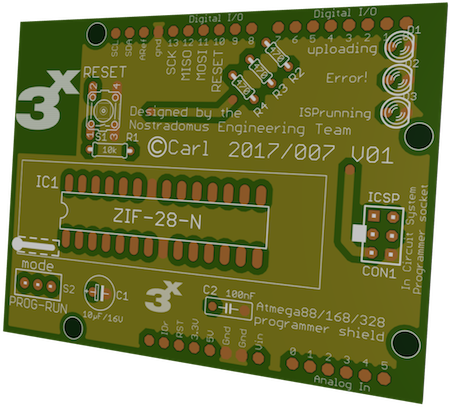
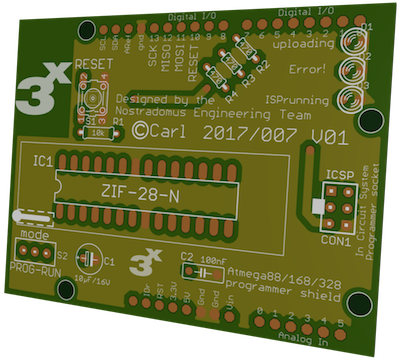
.

diff --git a/README.md b/README.md
@@ -4,7 +4,7 @@
 
 This repo provides you with all necessary info (and files) to build an Arduino shield to program [Atmel](http://www.atmel.com)'s **[atmega88/168/328](http://www.microchip.com/design-centers/8-bit/microchip-avr-mcus)** 𝜇-controllers. For that matter, the underlying Arduino board should be loaded with the ISP-programmer sketch (built-in example).
 
-![Shield - topview](images/photo-shield_only_top_view.png) ![Shield - bottomview](images/photo-shield_only_bottom_view.png)
+[![Schematic](images/schematic-s.png)](images/schematic.png) [![PCB](images/pcb-s.png)](images/pcb.png)
 
 ## Why
 
@@ -25,7 +25,7 @@ The push button, is connected to the reset lines of the AVR in the ZIF socket (a
 Three LED’s are available to visualize the correct functionality of the programming procedure.
 An optional AVR ISP connector has been foreseen in order to use the shield as stand-alone with a commercial programmer.
 
-![Shield with text annotations](images/photo-shield_with_annotations.png)
+[![Component layout](images/component_layout-s.png)](images/component_layout.png)
 
 #### BOM - bill of materials
 
@@ -45,8 +45,6 @@ S2     | toggle         | 9x4mm        | mini toggle switch
 CON1   | 6-pin          | SIL06        | long needle female stackable pin header strip
 CON2,3 | 8-pin          | SIL08        | long needle female stackable pin header strip
 CON4   | 10-pin         | SIL10        | long needle female stackable pin header strip
-
-[![Component layout](images/component_layout-s.png)](images/component_layout.png)
 
 ### How things work
 
